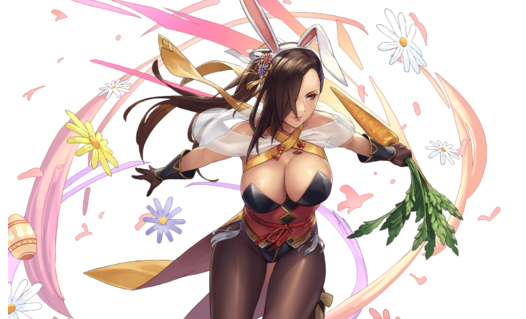
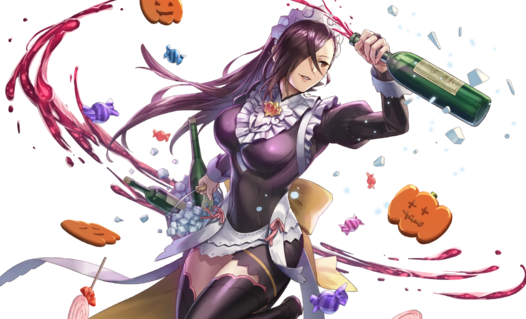
happpy halloween vg assets

diff --git a/current_vg.py b/current_vg.py
@@ -1,22 +1,22 @@
-vg_url='https://support.fire-emblem-heroes.com/voting_gauntlet/tournaments/28'
-vg_hashtag='#DC'
-round_1_start_raw = 'Oct 01 2019 3:00AM'
-round_1_end_raw = 'Oct 03 2019 12:00AM'
-round_2_start_raw = 'Oct 03 2019 3:00AM'
-round_2_end_raw = 'Oct 05 2019 12:00AM'
-round_3_start_raw = 'Oct 05 2019 3:00AM'
-round_3_end_raw = 'Oct 07 2019 12:00AM'
-round_1_unit_1 = "Reinhardt"
-round_1_unit_2 = "Berkut"
-round_1_unit_3 = "Shigure"
-round_1_unit_4 = "Inigo"
-round_1_unit_5 = "Ishtar"
-round_1_unit_6 = "Rinea"
-round_1_unit_7 = "Nephenee"
-round_1_unit_8 = "Olivia"
-round_2_unit_1 = "Reinhardt"
-round_2_unit_2 = "Inigo"
-round_2_unit_3 = "Rinea"
-round_2_unit_4 = "Olivia"
-round_3_unit_1 = "Inigo"
-round_3_unit_2 = "Rinea"
+vg_url='https://support.fire-emblem-heroes.com/voting_gauntlet/tournaments/29'
+vg_hashtag='#HH'
+round_1_start_raw = 'Oct 31 2019 3:00AM'
+round_1_end_raw = 'Nov 02 2019 12:00AM'
+round_2_start_raw = 'Nov 02 2019 3:00AM'
+round_2_end_raw = 'Nov 04 2019 12:00AM'
+round_3_start_raw = 'Nov 04 2019 3:00AM'
+round_3_end_raw = 'Nov 06 2019 12:00AM'
+round_1_unit_1 = "LArachel"
+round_1_unit_2 = "Dozla"
+round_1_unit_3 = "Mia"
+round_1_unit_4 = "Hector"
+round_1_unit_5 = "Ilyana"
+round_1_unit_6 = "Henry"
+round_1_unit_7 = "Kagero"
+round_1_unit_8 = "Jakob"
+round_2_unit_1 = "LArachel"
+round_2_unit_2 = "LArachel"
+round_2_unit_3 = "LArachel"
+round_2_unit_4 = "LArachel"
+round_3_unit_1 = "LArachel"
+round_3_unit_2 = "LArachel"

diff --git a/gauntlet_template.py b/gauntlet_template.py
@@ -11,7 +11,7 @@ import mechanize
 from bs4 import BeautifulSoup
 import tweepy
 from current_vg import * # current VG particpants and round dates
-from secrets_feh import * #TODO: Change before VG to secrets
+from secrets_poets import * #TODO: Change before VG to secrets
 
 # main method (called every 30 minutes)
 def check_gauntlet():
@@ -96,6 +96,9 @@ def check_gauntlet():
         if "Hr" in x_text and "d" in x_text:
             print("Changing text to Hrid")
             x_text = "Hrid"
+        if "L" in x_text and "Arachel" in x_text:
+            print("Changing text to LArachel")
+            x_text = "LArachel"
         #Test before VG if False
         if (vg_now):
             print("VG is NOW!!!")
